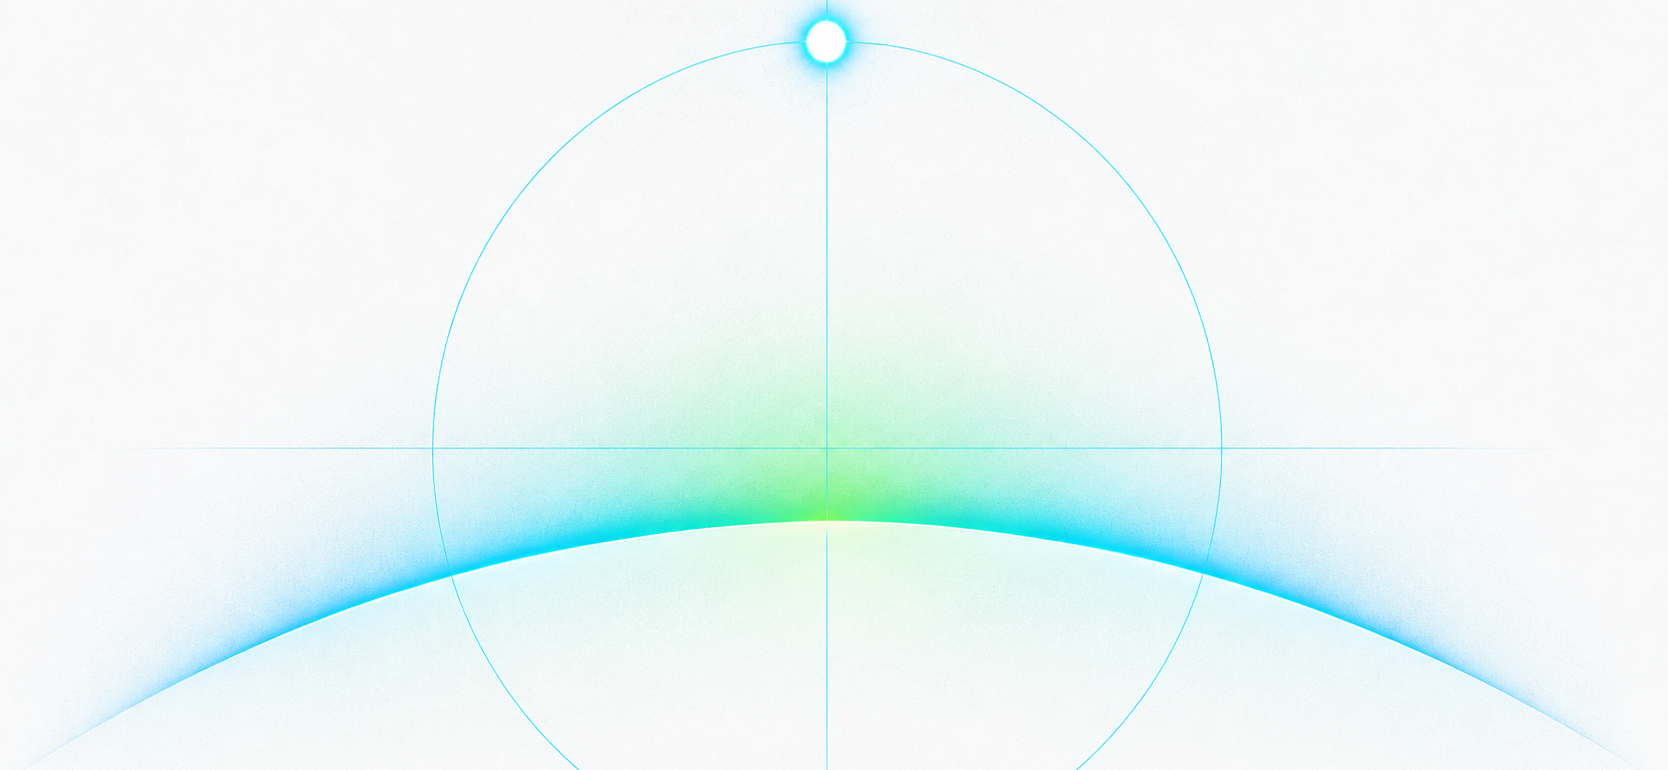
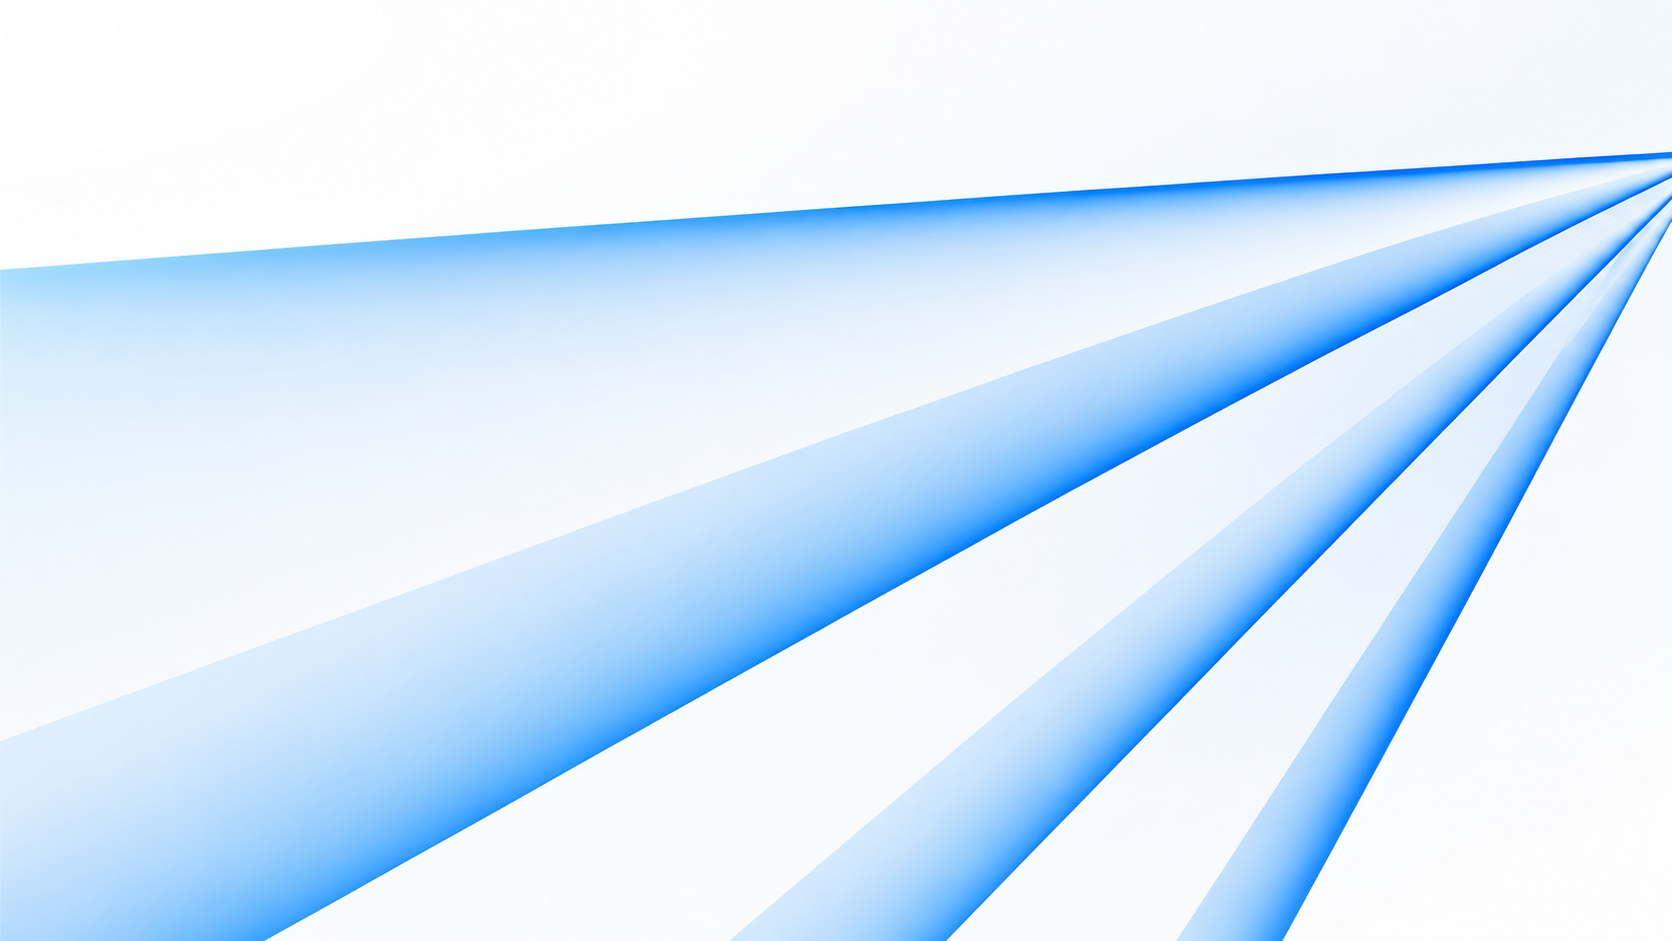
Use the new hero artwork, placed full-bleed
The new hero.png is a perspective ray fan, not a horizon arc: measured
convergence at 99% across / 16% down, top fifth empty, energy filling
everything below. Anchoring it to the fold like the previous image would
have thrown away its focal point, so it now sits full-bleed with cover
and a right anchor, which keeps the convergence on screen at every
aspect ratio.

A radial mask holds the headline area clear — the rays are pale, but
display type sitting on converging lines reads as noise — and the bottom
edge fades into the page. On narrow screens the anchor pulls back toward
centre, since cover crops the fan hard at tall aspect ratios and would
otherwise leave a single ray.

deploy/crop-hero.sh is replaced by deploy/make-hero.sh: the crop it
applied was specific to the previous image and would cut this one.

diff --git a/styles.css b/styles.css
@@ -367,7 +367,7 @@ h1, h2, h3, h4 {
   min-height: 100svh;
   display: grid;
   align-content: center;
-  padding-block: clamp(6rem, 10vw, 8rem) clamp(11rem, 24vw, 20rem);
+  padding-block: clamp(6rem, 10vw, 8rem) clamp(5rem, 9vw, 8rem);
   text-align: center;
   overflow: hidden;   /* clips the bloom, so <body> need not clip anything */
   /* almost white at the top, cool illumination gathering toward the horizon */
@@ -407,35 +407,40 @@ h1, h2, h3, h4 {
    ----------------------------------------------------------------------- */
 .hero__art {
   position: absolute;
-  left: 50%;
-  bottom: 0;
-  /* hero-art.png is hero.png with its empty base cropped off (1668x770), so
-     the arc reaches the element's bottom edge instead of floating above a
-     band of blank paper. Anchoring bottom-centre now puts the horizon on the
-     fold, which is where it was drawn to sit. */
-  width: min(96rem, 118%);
-  aspect-ratio: 1668 / 770;
-  transform: translateX(-50%);
+  inset: 0;
+  /* The artwork is a perspective ray fan: measured convergence at 99% across
+     and 16% down, top fifth empty, energy filling everything below. So it is
+     placed full-bleed with the vanishing point held at the right edge, rather
+     than anchored to the fold like a horizon would be.
+
+     `cover` with a right anchor keeps that convergence on screen at every
+     aspect ratio — it is the composition's focal point, and losing it to a
+     crop would leave anonymous diagonal streaks. */
   background:
     image-set(url("hero-art.webp") type("image/webp"), url("hero-art.png") type("image/png"))
-    center bottom / 100% 100% no-repeat;
+    right 18% / cover no-repeat;
   background: -webkit-image-set(url("hero-art.webp") type("image/webp"), url("hero-art.png") type("image/png"))
-    center bottom / 100% 100% no-repeat;
+    right 18% / cover no-repeat;
   mix-blend-mode: multiply;
-  /* feather the flanks and the top so the frame never shows */
-  -webkit-mask-image: linear-gradient(180deg, transparent 0%, #000 26%),
-                      linear-gradient(90deg, transparent 0%, #000 14%, #000 86%, transparent 100%);
-          mask-image: linear-gradient(180deg, transparent 0%, #000 26%),
-                      linear-gradient(90deg, transparent 0%, #000 14%, #000 86%, transparent 100%);
+  opacity: .9;
+  /* Hold the headline area clear. The rays are pale, but a display-size
+     heading sitting directly on converging lines reads as noise, so the
+     centre-top is faded out and the bottom edge is softened into the page. */
+  -webkit-mask-image:
+    radial-gradient(120% 68% at 42% 26%, transparent 34%, #000 72%),
+    linear-gradient(180deg, #000 0%, #000 82%, transparent 99%);
+          mask-image:
+    radial-gradient(120% 68% at 42% 26%, transparent 34%, #000 72%),
+    linear-gradient(180deg, #000 0%, #000 82%, transparent 99%);
   -webkit-mask-composite: source-in;
           mask-composite: intersect;
-  animation: art-float 14s ease-in-out infinite;
+  animation: art-float 16s ease-in-out infinite;
   will-change: transform;
 }
 
 @keyframes art-float {
-  0%, 100% { transform: translateX(-50%) translateY(5px); }
-  50%      { transform: translateX(-50%) translateY(-5px); }
+  0%, 100% { transform: scale(1.02) translateY(3px); }
+  50%      { transform: scale(1.02) translateY(-3px); }
 }
 
 /* environmental bloom, sitting in the air rather than on the planet */
@@ -968,7 +973,7 @@ h1, h2, h3, h4 {
 /* laptops with little vertical room: tighten the hero so it still fits one
    screen rather than pushing the stats below the fold */
 @media (min-width: 721px) and (max-height: 860px) {
-  .hero { padding-block: 5.5rem clamp(8rem, 18vw, 12rem); }
+  .hero { padding-block: 5.5rem 4rem; }
   .hero h1 { font-size: clamp(2.25rem, 4.2vw, 3.25rem); }
   .hero__sub { font-size: var(--text-l); margin-top: 1.125rem; }
   .hero__cta { margin-top: 1.5rem; }
@@ -1007,9 +1012,10 @@ h1, h2, h3, h4 {
   .nav__actions .btn--ghost { display: none; }
 
   /* the horizon must stay large on phones — a small circle loses the effect */
-  .hero { padding-block: 6rem clamp(9rem, 42vw, 13rem); min-height: 100svh; }
-  /* the horizon must stay wide on phones — shrinking it loses the effect */
-  .hero__art { width: 165%; }
+  .hero { padding-block: 6rem 4rem; min-height: 100svh; }
+  /* on a tall narrow screen `cover` crops the fan hard; pull the anchor
+     back toward centre so more than one ray survives */
+  .hero__art { background-position: 72% 20%; }
   .hero h1 { font-size: clamp(2.25rem, 10vw, 3rem); line-height: 1.04; max-width: 90vw; }
   .hero__sub { font-size: var(--text-l); max-width: 88vw; }
   .hero__cta .btn { min-width: 11rem; }
